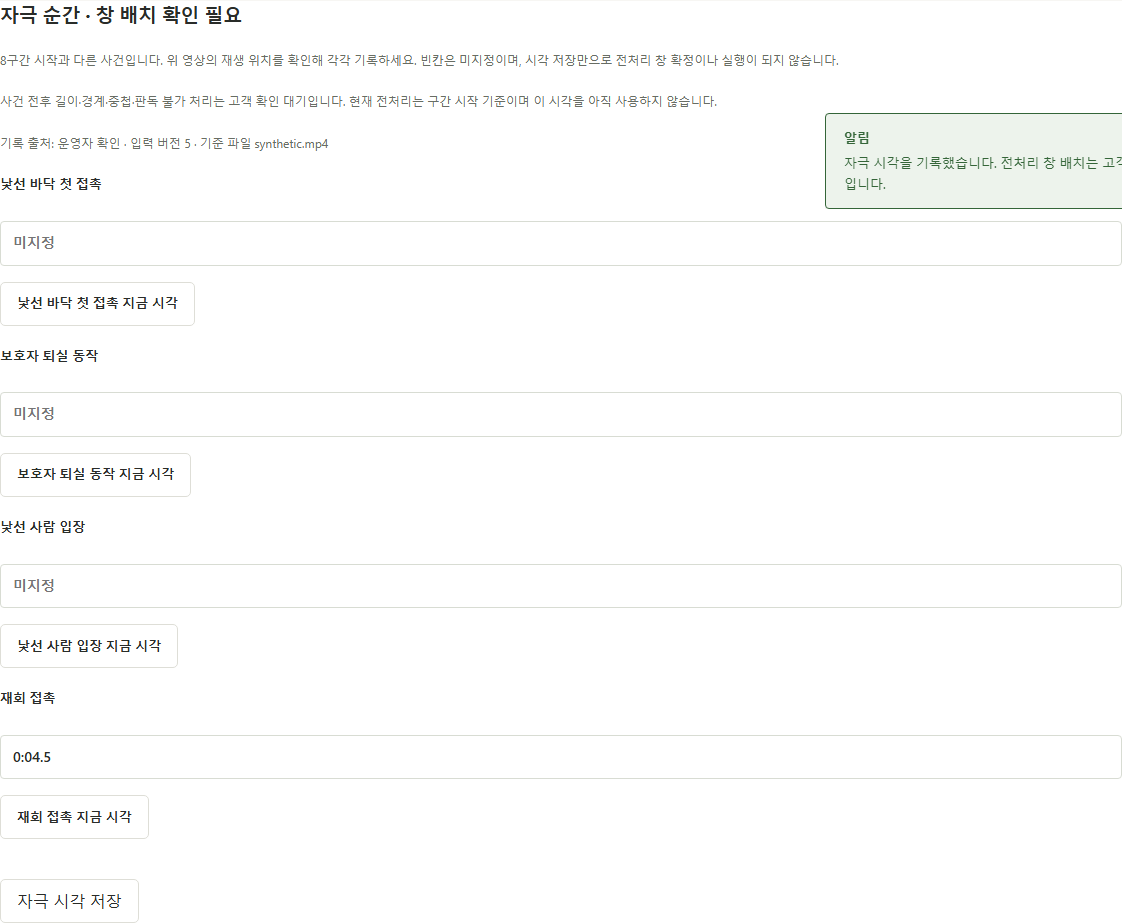
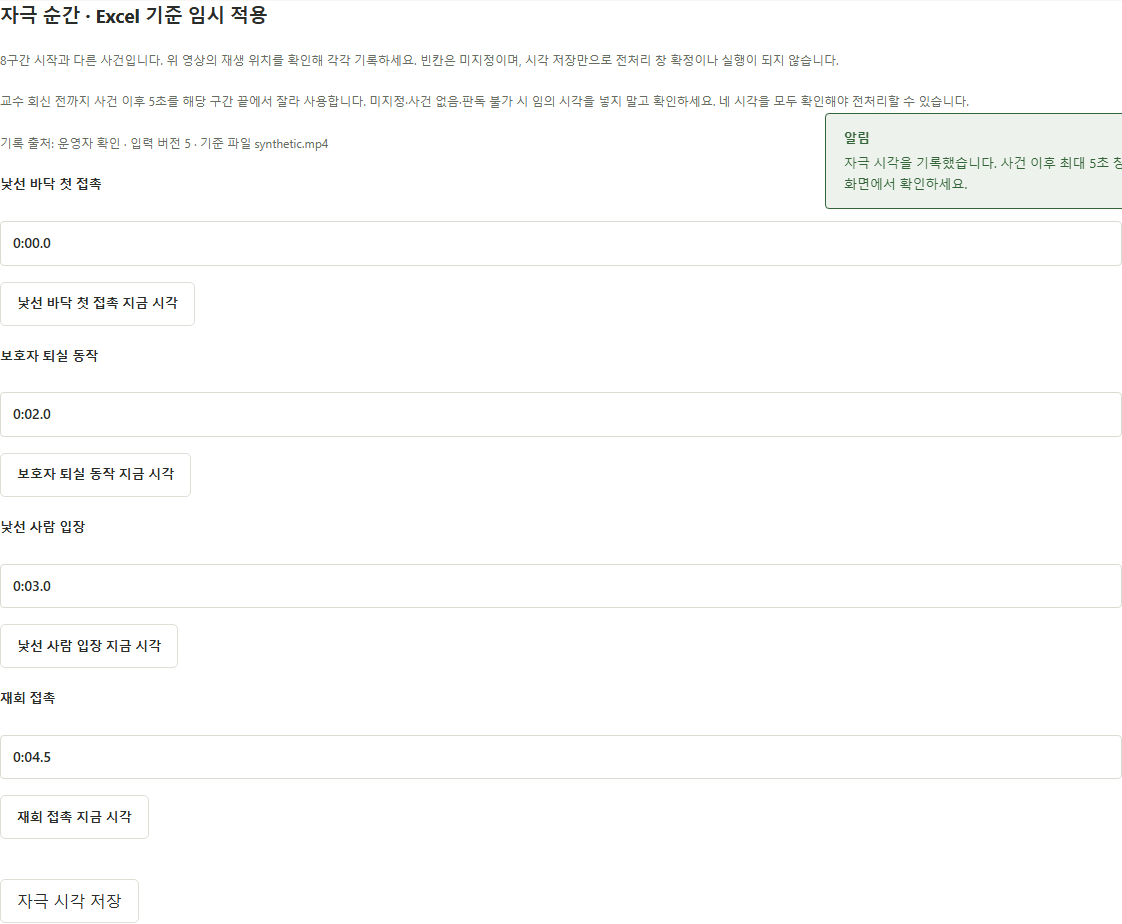
feat: Excel 기준 자극 이후 5초 전처리 임시 적용

diff --git a/frontend/src/pages/Preprocessing.tsx b/frontend/src/pages/Preprocessing.tsx
@@ -5,7 +5,8 @@ import type { CaseFilterProps } from '../CaseFilters';
 import { SEGMENTS } from '../types';
 import type { Case } from '../types';
 
-type Status = { status: 'ready' | 'not_ready' | 'running' | 'interrupted' | 'failed' | 'complete'; message: string; ready: boolean; outdated: boolean;
+type PlannedClip = { name: string; segment: string; start_sec: number; end_sec: number; fps: number };
+type Status = { status: 'ready' | 'not_ready' | 'running' | 'interrupted' | 'failed' | 'complete'; message: string; readiness_message: string; planned_clips: PlannedClip[]; ready: boolean; outdated: boolean;
   rules_version: string; dense_fps: number; sparse_fps: number; input_revision: number; video_name: string | null;
   result: { input_revision: number; created_at: string; clips: { name: string; segment: string; start_sec: number; end_sec: number; fps: number; ref: string; hash: string }[] } | null };
 
@@ -43,9 +44,11 @@ function PreprocessPanel({ item, writable }: { item: Case; writable: boolean }) 
   return <div className="panel" aria-label="전처리 상태">
     {error && <p role="alert">{error}</p>}
     {loadError && <p role="alert">{loadError}</p>}
-    {state ? <><p>기준 파일: {state.video_name ?? '영상·구간 확인 필요'}</p><p className="fine">규칙 {state.rules_version} · 구간 시작 기준 · 처음 5초 {state.dense_fps} fps / 나머지 {state.sparse_fps} fps · 오디오 유지</p>
-      <p className="fine">자극 순간 기준 창 배치는 고객 확인 대기입니다. 현재 구간 시작 기준 처리를 자극 순간 확정으로 간주하지 않습니다.</p>
+    {state ? <><p>기준 파일: {state.video_name ?? '영상·구간 확인 필요'}</p><p className="fine">규칙 {state.rules_version} · 자극 순간 이후 최대 5초 {state.dense_fps} fps / 나머지 {state.sparse_fps} fps · 오디오 유지</p>
+      <p className="fine">교수 회신 전 Excel 기준 임시 적용입니다. 각 창은 해당 구간 끝에서 자릅니다. 자극 시각 미지정·구간 밖이면 보완해야 실행할 수 있습니다.</p>
       <p role="status">{starting ? '처리 요청 중 · ' : ''}{state.message}</p>
+      {!state.ready && <p role="status">{state.readiness_message}</p>}
+      {state.planned_clips.length > 0 && <details open><summary>실행 전 처리 구간 확인</summary><ul>{state.planned_clips.map(clip => <li key={clip.name}>{SEGMENTS.find(([id]) => id === clip.segment)?.[1]} · {clip.start_sec}~{clip.end_sec}초 · {clip.fps} fps</li>)}</ul></details>}
       {state.outdated && <p role="status">이전 입력 기준 결과입니다. 현재 영상·구간·규칙으로 다시 전처리해야 합니다.</p>}
       {writable ? <button disabled={starting || state.status === 'running' || !state.ready} onClick={() => void start()}>{['failed', 'interrupted', 'complete'].includes(state.status) ? '이 촬영 전처리 다시 시작' : '이 촬영 전처리 시작'}</button> : <p className="fine">교수/검토자는 상태와 결과만 조회합니다.</p>}
       {state.result && <><h2>완료된 결과 {state.result.clips.length}개</h2><p className="fine">입력 버전 {state.result.input_revision} · {state.result.created_at}</p>

diff --git a/frontend/src/pages/Recording.tsx b/frontend/src/pages/Recording.tsx
@@ -153,12 +153,12 @@ function StimulusEditor({ item, videoId, writable, run, refresh, playerReady, no
     setError('');
     void run(async () => {
       await api(`/cases/${item.case_id}/sessions/${session.session_id}/stimuli`, 'PUT', { expected_revision: edit.view.revision, video_id: edit.view.video_id, moments: Object.fromEntries(entries) });
-      edit.reset(); setValues({}); await refresh('자극 시각을 기록했습니다. 전처리 창 배치는 고객 확인 대기입니다.');
+      edit.reset(); setValues({}); await refresh('자극 시각을 기록했습니다. 사건 이후 최대 5초 창을 전처리 화면에서 확인하세요.');
     });
   }
-  return <section aria-label="자극 시각 기록"><h3>자극 순간 · 창 배치 확인 필요</h3>
+  return <section aria-label="자극 시각 기록"><h3>자극 순간 · Excel 기준 임시 적용</h3>
     <p className="fine">8구간 시작과 다른 사건입니다. 위 영상의 재생 위치를 확인해 각각 기록하세요. 빈칸은 미지정이며, 시각 저장만으로 전처리 창 확정이나 실행이 되지 않습니다.</p>
-    <p className="fine">사건 전후 길이·경계·중첩·판독 불가 처리는 고객 확인 대기입니다. 현재 전처리는 구간 시작 기준이며 이 시각을 아직 사용하지 않습니다.</p>
+    <p className="fine">교수 회신 전까지 사건 이후 5초를 해당 구간 끝에서 잘라 사용합니다. 미지정·사건 없음·판독 불가 시 임의 시각을 넣지 말고 확인하세요. 네 시각을 모두 확인해야 전처리할 수 있습니다.</p>
     {stored && <p className="fine">기록 출처: 운영자 확인 · 입력 버전 {stored.input_revision} · 기준 파일 {session.videos.find(v => v.video_id === stored.video_id)?.original_name}</p>}
     {stored && stored.video_id !== videoId && <p role="status">저장된 자극 시각은 다른 기준 영상의 기록입니다. 현재 영상에는 자동 적용하지 않습니다.</p>}
     {edit.dirty && (edit.view.revision !== item.input_revision || edit.view.video_id !== videoId) && <p role="status">다른 입력 또는 기준 영상이 변경되었습니다. 편집 시작 버전을 유지하며 덮어쓰지 않습니다.</p>}

diff --git a/backend/tests/test_preprocess.py b/backend/tests/test_preprocess.py
@@ -47,12 +47,18 @@ class PreprocessTests(AppCase):
         self.session = self.item["manifest"]["sessions"][0]
         self.video_id = self.session["videos"][0]["video_id"]
 
-    def segments(self, windows=WINDOWS, confirm=True, expected=None):
+    def segments(self, windows=WINDOWS, confirm=True, expected=None, with_stimuli=True):
         response = self.client.put(f"/api/cases/{self.item['case_id']}/sessions/{self.session['session_id']}/segments", json={
             "expected_revision": expected or self.item["input_revision"], "video_id": self.video_id, "confirm": confirm,
             "windows": [{"segment": name, "start_sec": start, "end_sec": end} for name, (start, end) in zip(ORDER, windows)]})
         self.assertEqual(response.status_code, 200, response.text)
         self.item = response.json()
+        if with_stimuli and self.item["manifest"]["sessions"][0]["stimuli"] is None:
+            response = self.client.put(f"/api/cases/{self.item['case_id']}/sessions/{self.session['session_id']}/stimuli", json={
+                "expected_revision": self.item["input_revision"], "video_id": self.video_id,
+                "moments": {name: start for name, (start, _) in zip(ORDER, windows) if name in preprocess.RULES["dense_segments"]}})
+            self.assertEqual(response.status_code, 200, response.text)
+            self.item = response.json()
         return self.item
 
     def test_probe_and_cut_clip_keep_audio_and_apply_frame_rate(self):
@@ -95,7 +101,7 @@ class PreprocessTests(AppCase):
     def test_run_writes_hashed_clips_recorded_for_backup_and_cleanup(self):
         self.segments()
         result = preprocess.run(self.store, self.item["case_id"], self.session["session_id"], "operator")
-        self.assertEqual((result["rules_version"], len(result["clips"]), result["source_sha256"]), ("preprocess-v1", 11, self.session["videos"][0]["sha256"]))
+        self.assertEqual((result["rules_version"], len(result["clips"]), result["source_sha256"]), ("preprocess-v2-excel-provisional", 11, self.session["videos"][0]["sha256"]))
         for clip in result["clips"]:
             path = self.store.path(clip["ref"])
             self.assertTrue(clip["ref"].startswith(f"clips/{self.item['case_id']}/"))
@@ -145,6 +151,47 @@ class PreprocessTests(AppCase):
                         cwd=Path(__file__).resolve().parents[1], capture_output=True, text=True, encoding="utf-8", timeout=120)
         self.assertNotEqual(denied.returncode, 0)
 
+    def test_excel_event_window_eight_seconds_after_start_and_boundary_policy(self):
+        self.segments(WINDOWS[:4] + [(22.0, 36.0), (36.0, 38.0), (38.0, 42.0), (42.0, 45.0)])
+        path = f"/api/cases/{self.item['case_id']}/sessions/{self.session['session_id']}"
+        saved = self.client.put(path + "/stimuli", json={"expected_revision": self.item["input_revision"], "video_id": self.video_id,
+            "moments": {"entry": 0.0, "alone": 14.5, "stranger": 15.0, "reunion": 30.0}})
+        self.assertEqual(saved.status_code, 200, saved.text)
+        self.item = saved.json()
+        preview = self.client.get(path + "/preprocess").json()
+        dense = {c["segment"]: c for c in preview["planned_clips"] if c["fps"] == 8}
+        self.assertEqual((dense["reunion"]["start_sec"], dense["reunion"]["end_sec"]), (30.0, 35.0))
+        self.assertEqual((dense["entry"]["start_sec"], dense["entry"]["end_sec"]), (0.0, 3.0))
+        self.assertEqual((dense["alone"]["start_sec"], dense["alone"]["end_sec"]), (14.5, 15.0))
+        complete = self.client.post(path + "/preprocess", json={"expected_revision": self.item["input_revision"]})
+        self.assertEqual(complete.status_code, 200, complete.text)
+        result = complete.json()["result"]
+        self.assertEqual(result["stimuli"]["moments"]["reunion"], 30.0)
+        for clip in result["clips"]:
+            self.assertEqual({k: clip[k] for k in ("name", "segment", "start_sec", "end_sec", "fps")},
+                             next(c for c in preview["planned_clips"] if c["name"] == clip["name"]))
+            if clip["segment"] == "reunion":
+                stats = stream_stats(self.store.path(clip["ref"]))
+                self.assertEqual((stats["fps"], stats["audio"]), (float(clip["fps"]), True))
+                self.assertAlmostEqual(stats["duration"], clip["end_sec"] - clip["start_sec"], delta=0.35)
+        from app.input_models import Manifest
+        session = Manifest.model_validate(self.item["manifest"]).sessions[0]
+        # End-exclusive events cannot create empty dense clips. Bad windows are never silently merged.
+        for moment in (None, 21.9, 36.0, 45.0):
+            with self.subTest(moment=moment):
+                altered = session.model_copy(deep=True)
+                altered.stimuli.moments = altered.stimuli.moments.model_copy(update={"reunion": moment})
+                with self.assertRaises(HTTPException):
+                    preprocess.plan(altered)
+        altered = session.model_copy(deep=True)
+        altered.segments.windows[4].start_sec = 21.0
+        with self.assertRaises(HTTPException):
+            preprocess.plan(altered)
+        altered = session.model_copy(deep=True)
+        altered.stimuli.video_id = "different-reference"
+        with self.assertRaises(HTTPException):
+            preprocess.plan(altered)
+
     def test_manual_request_permissions_failure_interruption_and_lock(self):
         path = f"/api/cases/{self.item['case_id']}/sessions/{self.session['session_id']}/preprocess"
         self.assertEqual(self.client.get(path).json()["status"], "not_ready")
@@ -170,8 +217,8 @@ class PreprocessTests(AppCase):
             self.assertEqual(self.client.get(path).json()["status"], "running")
         self.assertEqual(self.client.get(path).json()["status"], "interrupted")
 
-    def test_stimulus_times_are_explicit_versioned_and_do_not_define_windows(self):
-        self.segments()
+    def test_stimulus_times_are_explicit_versioned_and_missing_prevents_processing(self):
+        self.segments(with_stimuli=False)
         path = f"/api/cases/{self.item['case_id']}/sessions/{self.session['session_id']}/stimuli"
         self.assertIsNone(self.item["manifest"]["sessions"][0]["stimuli"])
         payload = {"expected_revision": self.item["input_revision"], "video_id": self.video_id,
@@ -192,10 +239,10 @@ class PreprocessTests(AppCase):
         self.assertEqual(self.client.put(path, json=payload).status_code, 409)
         with self.store.connect() as db:
             self.assertIsNone(preprocess.latest(self.store, db, self.item["case_id"], self.session["session_id"]))
-        # The unconfirmed placement rule must NOT pretend to use the recorded event.
+        # A partial record cannot silently use segment starts for missing events.
         from app.input_models import Manifest
-        clips = preprocess.plan(Manifest.model_validate(self.item["manifest"]).sessions[0])
-        self.assertEqual(next(c["start_sec"] for c in clips if c["name"] == "reunion-dense"), 22.0)
+        with self.assertRaises(HTTPException):
+            preprocess.plan(Manifest.model_validate(self.item["manifest"]).sessions[0])
         # Existing manifests need no fabricated timing during upgrade/read.
         old = json.loads(json.dumps(self.item["manifest"]))
         del old["sessions"][0]["stimuli"]

diff --git a/backend/app/preprocess.py b/backend/app/preprocess.py
@@ -1,6 +1,6 @@
 """Local FFmpeg preprocessing: cut the confirmed eight segments of the reference file into immutable, hashed clips.
 
-Stimulus windows (first seconds of 입장·혼자·낯선·재회) are kept at a dense frame rate, the rest sparse (01 §5). Nothing here
+Operator-recorded stimulus windows are kept at a dense frame rate, the rest sparse (Excel provisional rule). Nothing here
 scores anything; the clips are the input the AI 채점 단계 (P2) will read instead of the multi-gigabyte original.
 """
 
@@ -16,11 +16,11 @@ from app.intake import selected_session
 from app.media import MediaError, cut_clip, probe
 from app.storage import REPO_ROOT, encode, now, uid
 
-RULES = json.loads((REPO_ROOT / "resources/rules/preprocess-v1.json").read_text(encoding="utf-8"))
+RULES = json.loads((REPO_ROOT / "resources/rules/preprocess-v2.json").read_text(encoding="utf-8"))
 
 
 def plan(session, rules=RULES):
-    """Clip specs for the reference file: dense window then sparse remainder for stimulus segments, one sparse clip otherwise."""
+    """Tile each segment without overlaps: sparse before the event, dense event window, sparse remainder."""
     if session.segments is None or not session.segments.confirmed:
         raise HTTPException(409, "8구간 시각을 확정한 뒤 전처리할 수 있습니다.")
     try:
@@ -30,10 +30,19 @@ def plan(session, rules=RULES):
     except ValueError as exc:
         raise HTTPException(422, "8구간의 끝은 시작보다 늦고 절차 순서대로 겹치지 않아야 합니다. 구간을 보완해 다시 확정하세요.") from exc
     clips = []
+    if session.stimuli is None or session.stimuli.video_id != session.segments.video_id:
+        raise HTTPException(409, "구간 기준 영상의 자극 시각 4개를 촬영 화면에서 기록하세요.")
     for window in session.segments.windows:
         if window.segment in rules["dense_segments"]:
-            dense_end = min(window.start_sec + rules["window_sec"], window.end_sec)
-            clips.append({"name": f"{window.segment}-dense", "segment": window.segment, "start_sec": window.start_sec,
+            moment = getattr(session.stimuli.moments, window.segment)
+            if moment is None or not window.start_sec <= moment < window.end_sec:
+                raise HTTPException(422, "자극 시각 4개는 각 해당 구간의 시작 이상, 끝 미만이어야 합니다. 미지정·사건 없음·판독 불가는 임의로 채우지 말고 확인하세요.")
+            dense_start = max(window.start_sec, moment - rules["before_sec"])
+            dense_end = min(moment + rules["after_sec"], window.end_sec)
+            if dense_start > window.start_sec:
+                clips.append({"name": f"{window.segment}-sparse-before", "segment": window.segment, "start_sec": window.start_sec,
+                              "end_sec": dense_start, "fps": rules["sparse_fps"]})
+            clips.append({"name": f"{window.segment}-dense", "segment": window.segment, "start_sec": dense_start,
                           "end_sec": dense_end, "fps": rules["dense_fps"]})
             if dense_end < window.end_sec:
                 clips.append({"name": f"{window.segment}-sparse", "segment": window.segment, "start_sec": dense_end,
@@ -79,7 +88,8 @@ def run(store, case_id, session_id, actor, rules=RULES, *, expected_revision=Non
     result = {"schema_version": "1.0", "rules_version": rules["version"], "case_id": case_id, "session_id": session_id,
               "input_revision": row["input_revision"], "video_id": video.video_id, "source_sha256": video.sha256,
               "source_duration_sec": info["duration_sec"], "source_width": info["width"], "source_height": info["height"],
-              "source_audio": info["audio_status"], "created_at": now(), "clips": outputs}
+              "source_audio": info["audio_status"], "created_at": now(), "clips": outputs,
+              "stimuli": session.stimuli.model_dump()}
     manifest_ref = f"{folder}/clips.json"
     data = encode(result).encode("utf-8")
     with store.path(manifest_ref).open("xb") as handle:
@@ -140,13 +150,15 @@ def status(store, case_id, session_id):
         entry = next(((e["action"], json.loads(e["detail_json"])) for e in entries if json.loads(e["detail_json"]).get("session_id") == session_id), None)
         latest_start = db.execute("SELECT detail_json FROM changes WHERE action='preprocess.started' ORDER BY rowid DESC LIMIT 1").fetchone()
     video = next((v for v in session.videos if session.segments and v.video_id == session.segments.video_id), None)
+    planned_clips = []
     try:
-        plan(session)
+        planned_clips = plan(session)
         ready = video is not None and manifest.selected_session_id == session_id
         message = "실행 가능합니다. 기준 영상과 처리 규칙을 확인한 뒤 시작하세요." if ready else "운영자가 이 촬영 회차를 저장 대상으로 선택해야 합니다."
     except HTTPException as exc:
         ready, message = False, exc.detail
     state = "ready" if ready else "not_ready"
+    readiness_message = message
     if entry:
         action, detail = entry
         if action == "preprocess.started":
@@ -164,6 +176,6 @@ def status(store, case_id, session_id):
         else:
             state, message = "complete", "전처리가 완료되었습니다."
     outdated = bool(result and (result["input_revision"] != row["input_revision"] or result["rules_version"] != RULES["version"] or not video or result["source_sha256"] != video.sha256))
-    return {"status": state, "message": message, "ready": ready, "outdated": outdated,
+    return {"status": state, "message": message, "readiness_message": readiness_message, "planned_clips": planned_clips, "ready": ready, "outdated": outdated,
             "rules_version": RULES["version"], "dense_fps": RULES["dense_fps"], "sparse_fps": RULES["sparse_fps"],
             "input_revision": row["input_revision"], "video_name": video.original_name if video else None, "result": result}

diff --git a/scripts/rehearsal.py b/scripts/rehearsal.py
@@ -31,7 +31,7 @@ from app.api import create_app  # noqa: E402
 from app.auth import create_user  # noqa: E402
 from app.input_models import Manifest, UserCreate  # noqa: E402
 from app.intake import headers  # noqa: E402
-from app.maintenance import runtime_lock, status  # noqa: E402
+from app.maintenance import status  # noqa: E402
 
 ORDER = ("entry", "baseline", "alone", "stranger", "reunion", "ignore", "walk", "exit")
 # Segment boundaries as fractions of the reference length, roughly the 01 §3 procedure proportions.
@@ -166,13 +166,16 @@ def rehearse(data_dir: Path, pairs: int, seconds: float, event: str):
             for item in cases.values():
                 session = next(s for s in item["manifest"]["sessions"] if s["session_id"] == item["selected_session_id"])
                 reference_id = next(v["video_id"] for v in session["videos"] if v["original_name"] == "reference.mp4")
-                cases[item["participant_id"]] = call("put", f"/api/cases/{item['case_id']}/sessions/{session['session_id']}/segments", json={
+                item = call("put", f"/api/cases/{item['case_id']}/sessions/{session['session_id']}/segments", json={
                     "expected_revision": item["input_revision"], "video_id": reference_id, "confirm": True, "windows": windows(duration)})
+                cases[item["participant_id"]] = call("put", f"/api/cases/{item['case_id']}/sessions/{session['session_id']}/stimuli", json={
+                    "expected_revision": item["input_revision"], "video_id": reference_id,
+                    "moments": {w["segment"]: w["start_sec"] for w in windows(duration) if w["segment"] in preprocess.RULES["dense_segments"]}})
 
         clips, clip_bytes = 0, 0
-        with timed(stages, "preprocess"), runtime_lock(store, "worker"):
+        with timed(stages, "preprocess"):
             for item in cases.values():
-                result = preprocess.run(store, item["case_id"], item["selected_session_id"], "rehearsal-operator")
+                result = preprocess.execute(store, item["case_id"], item["selected_session_id"], "rehearsal-operator")
                 clips += len(result["clips"])
                 clip_bytes += sum(clip["size_bytes"] for clip in result["clips"])
                 for clip in result["clips"]:

diff --git a/backend/app/input_models.py b/backend/app/input_models.py
@@ -225,18 +225,22 @@ class Message(Model):
     message: str
 
 
-class PreprocessClip(Model):
+class PreprocessPlannedClip(Model):
     name: str
     segment: SegmentId
     start_sec: float
     end_sec: float
     fps: int
+
+
+class PreprocessClip(PreprocessPlannedClip):
     ref: str
     hash: str
     size_bytes: int
 
 
 class PreprocessResult(Model):
+    stimuli: StimulusTimes | None = None
     schema_version: Literal["1.0"]
     rules_version: str
     case_id: Key
@@ -253,6 +257,8 @@ class PreprocessResult(Model):
 
 
 class PreprocessStatus(Model):
+    readiness_message: str
+    planned_clips: list[PreprocessPlannedClip]
     status: Literal["ready", "not_ready", "running", "interrupted", "failed", "complete"]
     message: str
     ready: bool

diff --git a/backend/tests/test_packaging.py b/backend/tests/test_packaging.py
@@ -69,7 +69,7 @@ class LauncherTests(unittest.TestCase):
     def test_required_files_are_the_42_item_resources_and_exist(self):
         self.assertIn("resources/catalogs/behavior-v2.json", REQUIRED)
         self.assertIn("resources/rules/scoring-v2.json", REQUIRED)
-        self.assertIn("resources/rules/preprocess-v1.json", REQUIRED)
+        self.assertIn("resources/rules/preprocess-v2.json", REQUIRED)
         self.assertIn("resources/catalogs/survey-v1-to-v2.json", REQUIRED)
         self.assertFalse([name for name in REQUIRED if name.endswith(("behavior-v1.json", "survey-v1.json", "scoring-v1.json"))])
         self.assertEqual([name for name in REQUIRED if not (REPO_ROOT / name).is_file() and not name.startswith("frontend/")], [])

diff --git a/backend/app/launcher.py b/backend/app/launcher.py
@@ -88,7 +88,7 @@ def process_group():
 # Files the 42-item app reads at runtime, including the survey mapping the intake-1.0 → 2.0 migration needs on first launch.
 # The v1 catalogs stay packaged for stored 55-item runs but are not startup requirements.
 REQUIRED = ("frontend/dist/index.html", "resources/catalogs/behavior-v2.json", "resources/catalogs/survey-v2.json",
-            "resources/catalogs/survey-v1-to-v2.json", "resources/rules/scoring-v2.json", "resources/rules/preprocess-v1.json",
+            "resources/catalogs/survey-v1-to-v2.json", "resources/rules/scoring-v2.json", "resources/rules/preprocess-v2.json",
             "resources/fonts/NanumGothic-Regular.ttf", "resources/fonts/NotoSansSymbols.ttf")
 
 

diff --git a/backend/tests/test_rehearsal.py b/backend/tests/test_rehearsal.py
@@ -31,7 +31,7 @@ class RehearsalTests(unittest.TestCase):
             self.assertEqual(set(report["stages_sec"]), {"synthetic_media", "intake_import", "survey_import", "video_register", "segments_confirm", "preprocess"})
             clips = list(Path(temporary).glob("clips/*/*/*/clips.json"))
             self.assertEqual(len(clips), 2)
-            self.assertEqual(json.loads(clips[0].read_text(encoding="utf-8"))["rules_version"], "preprocess-v1")
+            self.assertEqual(json.loads(clips[0].read_text(encoding="utf-8"))["rules_version"], "preprocess-v2-excel-provisional")
 
     def test_cli_refuses_a_non_empty_data_dir(self):
         with tempfile.TemporaryDirectory(prefix="kdog-rehearsal-cli-") as temporary:

diff --git a/docs/검수개선/K-DOG_PR-A07_자극시점전처리_v1.0_20260916.md b/docs/검수개선/K-DOG_PR-A07_자극시점전처리_v1.0_20260916.md
@@ -1,6 +1,6 @@
 # PR-A07 자극 시점을 기준으로 전처리 창 지정
 
-버전: v1.0 · 2026-09-16 · 상태: 시각 기록 구현·검증, 창 규칙 회신 대기 · 분류: should-fix · 의존: A04 및 창 배치 확인
+버전: v1.0 · 2026-09-16 · 상태: Excel 기준 임시 적용 구현·검증·cold review 완료 · 분류: should-fix · 의존: A04 및 창 배치 확인
 
 상위: [검수 결과](../K-DOG_검수결과_v1.0_20260916.md) S01. 근거: 고객 01 §2·§5. 실제 영상 정확도는 이번 판단의 근거로 사용하지 않았다.
 
@@ -10,9 +10,9 @@
 
 `backend/app/preprocess.py:31`은 해당 구간 시작~시작+5초를 8 fps, 이후를 2 fps로 만든다. 합성 구간 재회 80~100초, 접촉 88초를 가정하면 계획은 80~85초 8 fps·85~100초 2 fps다. 원본 문서가 지목한 접촉 순간이 촘촘한 창 밖에 있다. 기존 시험은 현재 구간 시작 분할만 검증한다.
 
-## 먼저 확인할 해석
+## 최초 확인 요청과 임시 적용 결정
 
-고객 문서에는 「자극 순간 앞뒤 5초」와 「각 5초」가 함께 있다. 앞뒤 각각 5초인지, 총 5초인지, 사건 전후 비율은 무엇인지 확인해야 한다. 자동으로 ±2.5초 또는 이후 5초로 정하지 않는다. [채점규칙 확인 요청](../K-DOG_채점규칙_확인요청_v1.0_20260916.md)에 시간 창 질문을 별도 추가하는 것이 좋다.
+고객 문서에는 「자극 순간 앞뒤 5초」와 「각 5초」가 함께 있다. 앞뒤 각각 5초인지, 총 5초인지, 사건 전후 비율은 무엇인지 확인해야 한다. 최초 계획에서는 자동으로 ±2.5초 또는 이후 5초로 정하지 않기로 했다. 이후 2026-09-16 사용자가 「교수에게서 답변 오면 수정 … 엑셀 기준으로 처리」하도록 지시하여, 아래 Excel 근거와 명시한 임시 처리로 진행한다. [채점규칙 확인 요청](../K-DOG_채점규칙_확인요청_v1.0_20260916.md)에 시간 창 질문을 별도 추가하는 것이 좋다.
 
 ## 제안 범위
 
@@ -32,7 +32,7 @@
 
 권장 PR 제목: `feat: 운영자가 확인한 자극 시점으로 전처리 창 지정`
 
-## 진행 기록 (2026-09-16)
+## 시각 기록 선행 단계 (2026-09-16, 임시 적용 지시 전)
 
 - [x] 네 사건 시각을 구간 시작과 별도로 기록하는 계약·API·촬영 UI 구현. 영상 ID, 저장 입력 revision, operator_confirmed 출처를 보존한다. 원본 해시·영상 길이를 검사하고 음수/비유한/범위 초과 값을 거절한다.
 - [x] 기존 자료는 stimuli 미지정으로 읽는다. 빈칸을 구간 시작이나 0으로 채우지 않는다. 부분 입력은 미지정 그대로 저장하며 사건 없음·판독 불가의 의미를 임의 부여하지 않는다.
@@ -40,10 +40,26 @@
 - [x] 기록 저장은 전처리를 실행하지 않으며 현재 preprocess-v1의 구간 시작 규칙을 바꾸지 않는다. 화면에서 자극 시각이 아직 전처리에 적용되지 않음을 표시한다.
 - [x] 백엔드 전체 122개·빌드·전체 e2e 17개·diff check 통과. 실제 영상 및 합의 전 창 절단 시험은 제외.
 - [x] cold review: domain 계약의 schema_version을 시간 범위 검사에서 제외하도록 수정. 화면 검수에서 동일 부모의 SessionEditor·VideoUpload가 같은 key를 써 자동 갱신마다 메모 제목이 중복되는 문제를 발견해 **수용**했다. 불필요한 중복 key를 제거하고 갱신 후 제목 1개 회귀 검증을 추가했다. 회차별 초기화는 부모 RecordingPanel의 case/session key가 담당한다. 이 독립 수정은 [A05 후속 PR #24](https://github.com/syleeVeluga/k-dog-proj/pull/24)로 먼저 병합했다. 편집 중 기준 영상 변경과 구간 저장이 자극 미저장 입력을 소실시키지 않는지 확인. 창 길이/중첩/경계 처리를 추정해서 구현하는 안은 **수용하지 않음**.
-- [ ] 고객 합의된 창 길이·사건 전후·영상/구간 경계·중첩 및 사건 없음/판독 불가 처리 반영.
-- [ ] 최종 창 미리보기, 새 규칙 버전, 사건을 포함하는 8 fps 분할·FFmpeg 절단 검증.
-- [ ] 전체 완료 체크 및 병합. 위 두 항목이 미확정이므로 draft PR로 보존한다.
+- 이후 사용자 임시 적용 지시를 받아 아래 완료 기록으로 이어진다. 교수의 최종 회신은 질문 문서에 계속 대기한다.
 
 고객 확인 질문은 [채점규칙 확인 요청 1장 질문 8](../K-DOG_채점규칙_확인요청_v1.0_20260916.md)에 모았다. 이 문서의 「먼저 확인할 해석」에 따라 ±2.5초·이후 5초 중 어느 것도 자동 채택하지 않았다. 실제 영상 시험은 요청에 따라 범위에서 제외했다.
 
 ![자극 시각 기록과 창 배치 확인 대기](images/a07-stimulus-recording.png)
+
+
+## Excel 기준 임시 적용 완료 기록 (2026-09-16)
+
+- [x] 사용자 지시를 근거로 교수 회신을 기다리지 않고 임시 적용. 교수의 최종 확정과 구분한다.
+- [x] Excel `03_행동_채점표_42항목_20260913.xlsx`의 `1_바디시그널!C8·C10`은 사건 순간부터 5초 안을 명시한다. 입장·혼자는 이를 직접 적용하고, 낯선 사람·재회도 동일 길이를 임시 적용한다. 원본 파일은 수정하지 않았다.
+- [x] `preprocess-v2-excel-provisional`: 전 0초·후 5초, 해당 구간 끝에서 자르기. 구간은 기존 순서·겹침 금지 검증으로 분리되므로 여러 dense 창도 겹치지 않는다. 구간 밖·미지정·끝과 같은 사건 시각은 실행 거절한다. 사건 없음·판독 불가는 임의 값으로 대체하지 않고 확인 후 실행한다. 이 경계·결측 정책은 Excel의 명문 규칙이 아닌 임시 운영 처리다.
+- [x] 전처리 화면에서 모든 최종 시작·끝·fps를 실행 전에 검토. 교수는 읽기 전용, 운영자는 명시적으로 실행한다. 최신 준비 요건은 이전 완료 상태와 별도로 표시한다.
+- [x] 새 batch의 결과에는 실제 적용 자극 시각·원본 해시·입력 revision·규칙 버전을 보존한다. 이전 규칙 결과는 이전 입력 결과로 표시한다.
+- [x] 재회 구간 22~36초·접촉 30초 합성 영상에서 22~30초 sparse, 30~35초 dense, 35~36초 sparse를 API 미리보기와 실제 FFmpeg 출력으로 대조. 0초 사건·짧은 구간 끝에서 자르기·구간 끝 사건 거절·시각 누락·범위 초과·영상 불일치·겹친 구간 거절 검증.
+- [x] cold review: 기존 완료 메시지가 새 미지정 상태의 보완 안내를 가리는 문제를 **수용**해 준비 안내를 별도 표시. 새 규칙 파일을 런처 필수 파일과 합성 리허설에 연결하는 누락을 **수용**해 수정. 기존 v1 규칙/산출물은 보존한다.
+- [x] 합성 영상 시험만 수행. 공급자 호출·실제 영상 시험 없음. 의존성은 앞선 PR에서 확인한 기존 잠금 버전을 유지하며 새 라이브러리 추가 없음.
+
+질문 8은 교수 회신 대기로 유지한다. 회신 시 새 규칙 버전·창 미리보기·합성 시험 기대값을 함께 수정하고 이전 산출물을 덮어쓰지 않는다.
+
+- [x] 최종 검증: 백엔드 전체 123개, 전체 e2e 17개, 프론트 빌드, 상대 링크·diff check 통과. 구현→검증→cold review→수용안 반영→문서 완료 체크 순서를 마쳤다.
+
+![교수 조회와 적용 규칙](images/a07-preprocess-reviewer-768.png)
